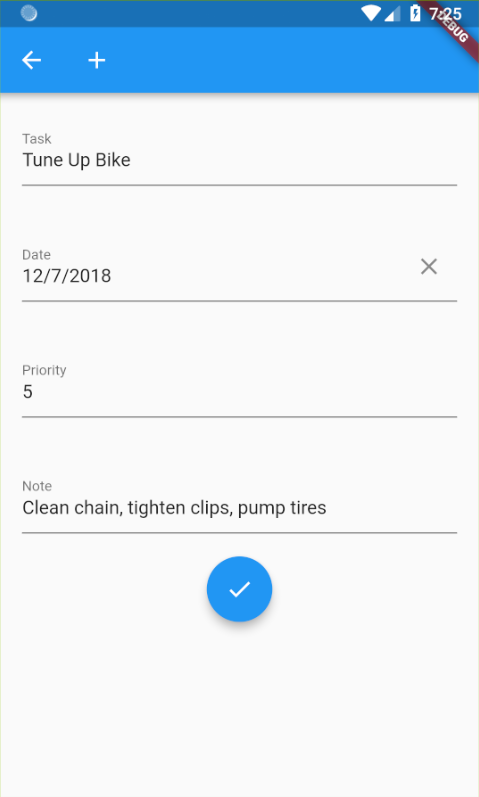
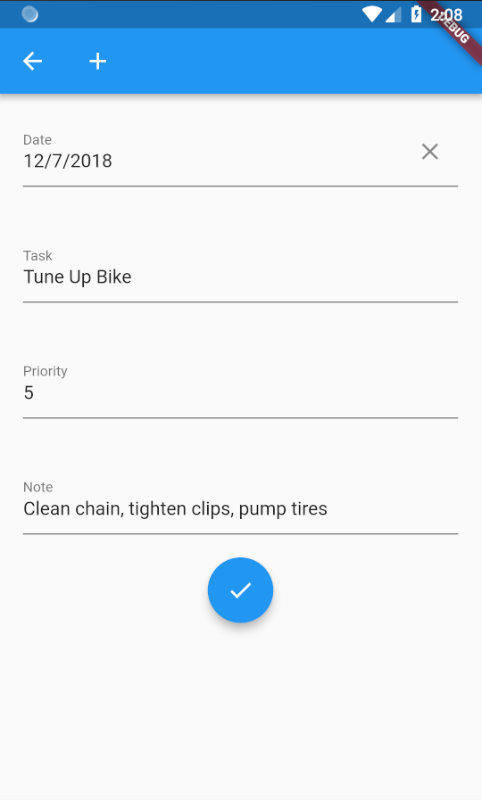
updated the tutorial to reflect the new usaged of 'subtitle'

diff --git a/tutorials/get_started_part_1.md b/tutorials/get_started_part_1.md
@@ -255,10 +255,10 @@ So, let's update the code to use the DocumentListScaffold instead of building a 
 ```
 class _TaskerHomePageState extends State<TaskerHomePage> {
   DocumentList documentList = DocumentList("Tasker", labels: {
-    "Task" : "title",
-    "Date" : "date",
-    "Priority" : "pri count",
-    "Note" : "note"
+    "Date": "date",
+    "Task": "title",
+    "Priority": "pri count",
+    "Note": "subtitle"
   });
 
   @override
@@ -294,38 +294,8 @@ Because you named the field for priority in something that ends in "count", Rapi
 The other fields are just assumed to be text:  
 ![complete form](../assets/complete-form.png)
 
-### Fixing the Display
-After using the create functionality for 3 tasks, you can see that the list is being populated with the entries. You should also notice that the display is not ideal. We can easily fix that:  
-![buggy list](../assets/buggy-list.png)
-
-DocumentListScaffold and DocumentListView both allow a lot of customization, some of which will be covered later. For now, we will take advantage of some simple customization in the default ListTile that Rapido creates for each Document. The first property is called "titleKeys." This is a list of Strings which are the key names in the documents that you want in the document row.
-
-So, change the build function to look like this:
-```
-  @override
-  Widget build(BuildContext context) {
-    return DocumentListScaffold(
-      documentList,
-      titleKeys: ["date", "title", "pri count"],
-    );
-  }
-```
-This cleans up the UI a lot:  
-![cleaned up list](../assets/clean-list.png)
-
-But, it's not displaying the notes field. We can use the subtitleKey property to tell Rapido to display the note in the subtitle of the default ListTile.
-```
-  @override
-  Widget build(BuildContext context) {
-    return DocumentListScaffold(
-      documentList,
-      titleKeys: ["date", "title", "pri count"],
-      subtitleKey: "note",
-    );
-  }
-  ```
-
-And that displays the notes:  
+### Default ListTile
+The fields "title" and "subtitle" have semantic meaning to Rapido, which means that different UI elements will infer your intentions from how you name the fields. For example, you can see that the default ListTile assumes that you want to use what you call "Notes" in the UI as a subtitle:  
 ![subtitle](../assets/subtitle.png)
 
 ### Sorting
